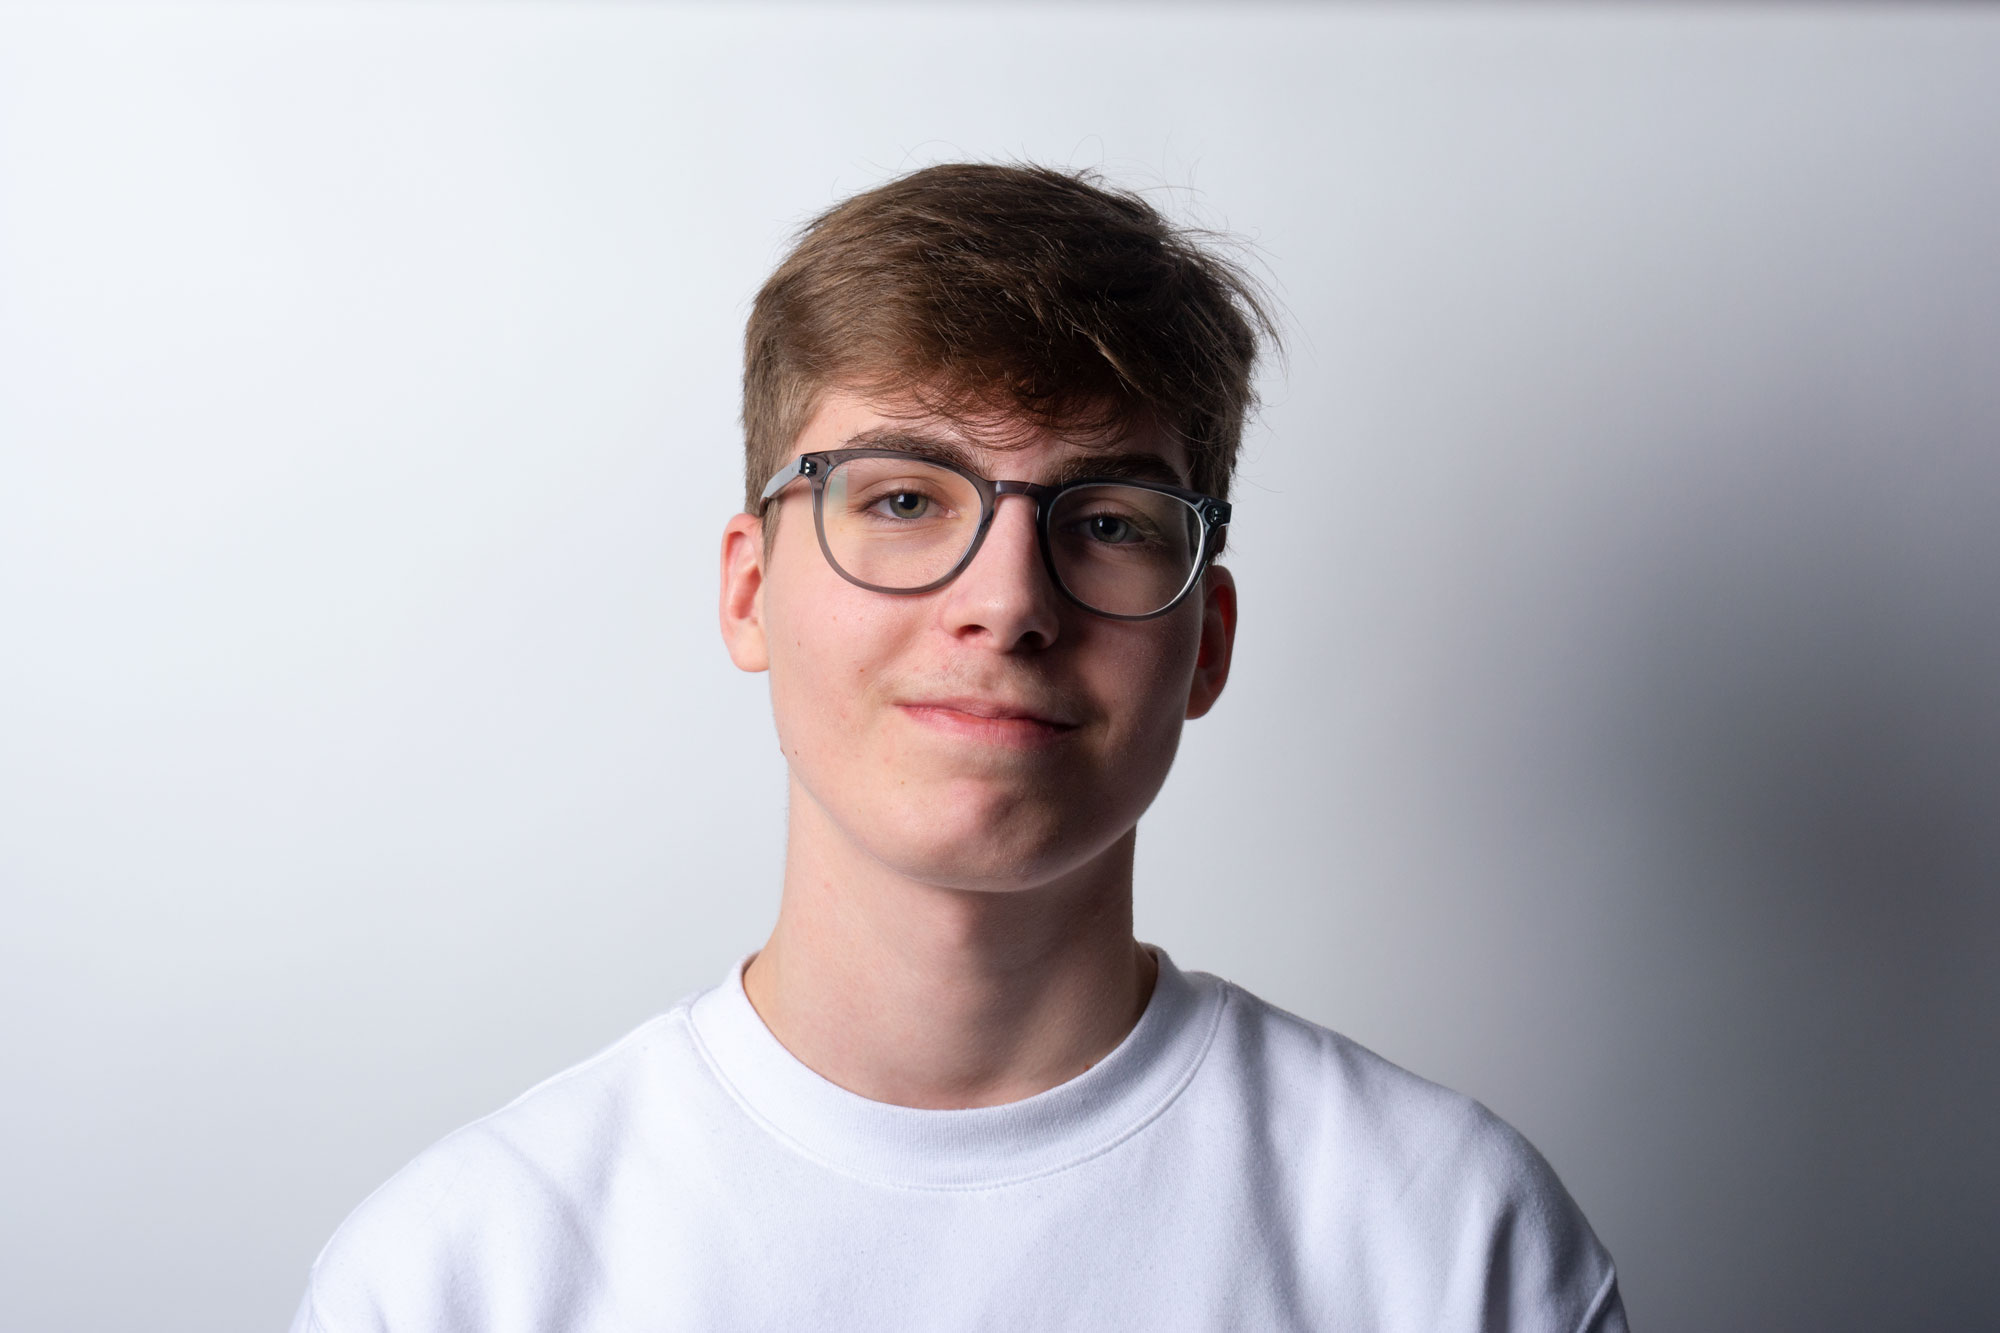
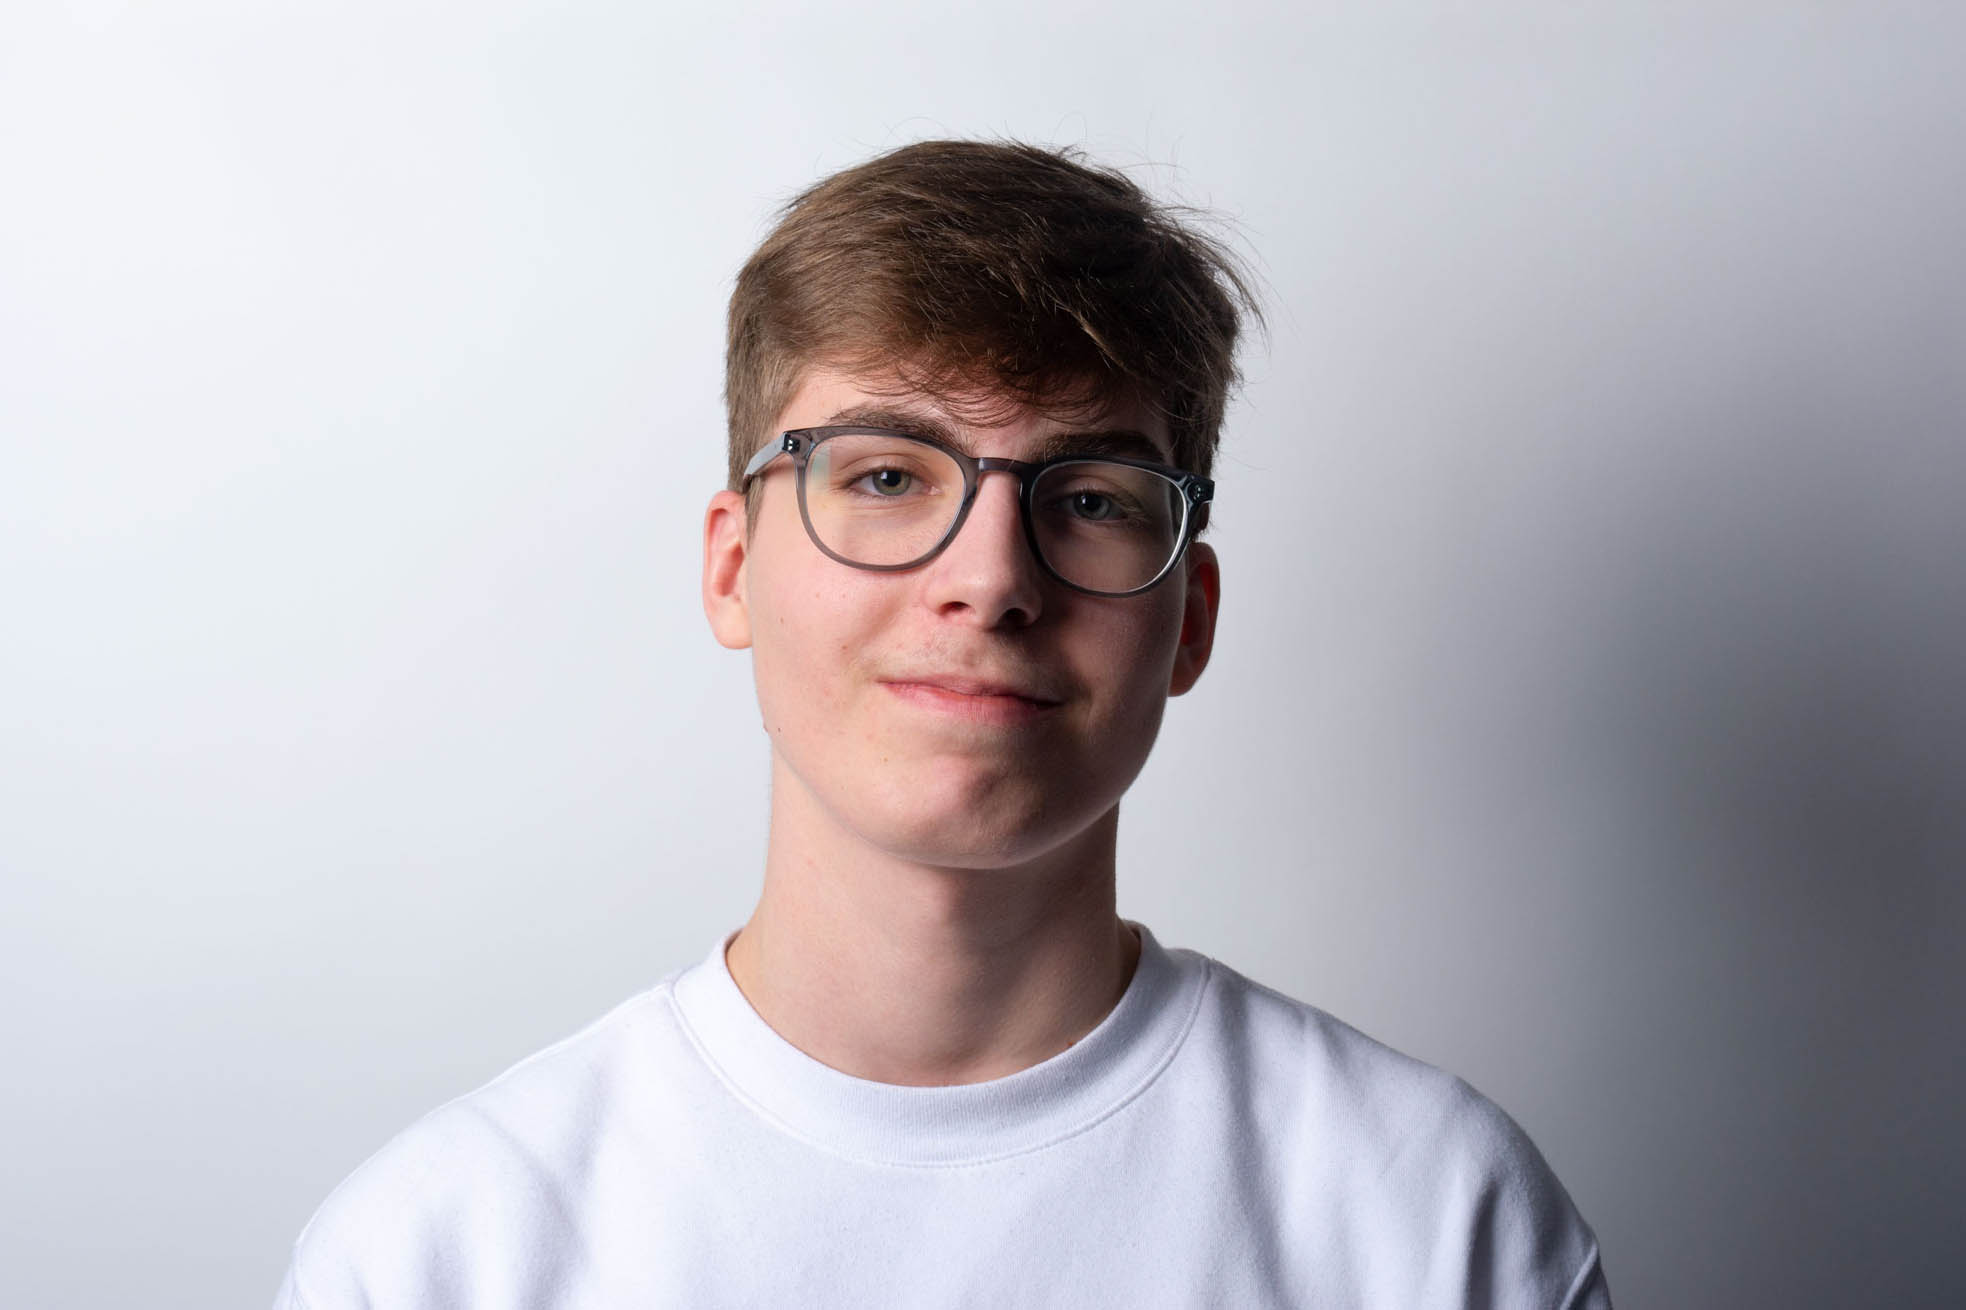
update

diff --git a/uebermich/index.html b/uebermich/index.html
@@ -10,8 +10,8 @@
     <div class="cursor"></div>
     <div class="textdiv">
       <p class="breadcrumbs"><a href="../" class="breadcrumbshover">Home</a> - <a>Über mich</a></p>
-      <div class="imageboxuebermich"></div>
-      <p class="text">Hallo, ich bin Liam! Ich bin Mediamatiker im zweiten Lehrjahr und komme aus Burgdorf. Ich war <span class="bold">Content Publisher</span> der Swisscom Webseiten und <span class="bold">Designer</span> bei Middleman. Auserdem habe ich <span class="bold">Shoperfahrung</span>.</p>
+      <div class="imagebox"><img src="../assets/uebermich.jpg" alt="Ueber mich Bild"></div>
+      <p class="text">Hallo, ich bin Liam! Ich bin Mediamatiker im zweiten Lehrjahr und komme aus Burgdorf. Ich war <span class="bold">Content Publisher</span> der Swisscom Webseiten und <span class="bold">Designer</span> bei Middleman. Auserdem habe ich <span class="bold">Shoperfahrung</span>. Zurzeit bin ich Multimedia Producer bei <span class="bold">Motion</span>.</p>
       <p class="text"><span class="smalltitle">Hobbies</span><br>Ich jogge gerne und fahre auch Rennvelo. Ich führe auch einen kleinen YouTube-Kanal. Auf dem tobe ich mich kreativ aus und erweitere meine Kenntnisse im Bereich Videoschnitt und Photoshop. Am Wochenende unternehme ich gerne etwas mit meinen Freunden.</p>
       <p class="text"><span class="smalltitle">Vergangene Projekte</span><br>01.8.2021 - 05.8.2021, NEX First Steps<br>06.8.2021 - 31.1.2022, Middleman Team<br>01.2.2022 - 31.8.2022, Shop Solothurn<br>31.8.2022 - 31.1.2022, Swisscom Publishing</p>
     </div>

diff --git a/styles.css b/styles.css
@@ -37,22 +37,13 @@ body{
   font-weight: 500;
 }
 
-.imageboxtest{
-  width: 100%;
-  height: 40vh;
-
-  background-image: url(/assets/testbackground.jpg);
-  background-size: cover;
+.imagebox {
+  height: 80vh;
 }
 
-.imageboxuebermich {
-  width: 100%;
-  height: 60vh;
-
-  background-image: url(/assets/uebermich.jpg);
-  background-size: contain;
-  background-position: center;
-  background-repeat: no-repeat;
+.imagebox img {
+  position: relative;
+  height: 100%;
 }
 
 .title{
